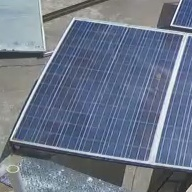
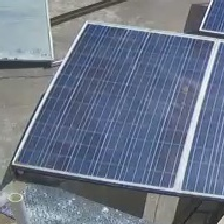
Resize

diff --git a/resize_examples.py b/resize_examples.py
@@ -6,7 +6,14 @@ def resize_examples():
 
     for n in os.listdir(path):
         img = cv2.imread(os.path.join(path, n))
-        img = cv2.resize(img, (112, 112), interpolation=cv2.INTER_NEAREST)
+        img = cv2.resize(img, (224, 224), interpolation=cv2.INTER_NEAREST)
+        cv2.imwrite(os.path.join(path, n), img)
+
+    path = "figures\\examples\\images"
+
+    for n in os.listdir(path):
+        img = cv2.imread(os.path.join(path, n))
+        img = cv2.resize(img, (224, 224), interpolation=cv2.INTER_NEAREST)
         cv2.imwrite(os.path.join(path, n), img)
 
 if __name__ == "__main__":
